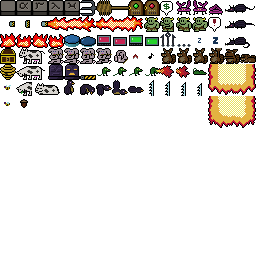
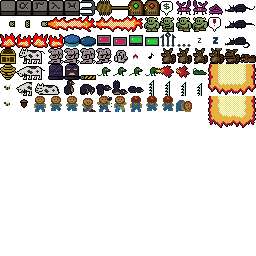
farmer

Changed region(s): [[0.125, 0.375, 0.75, 0.4375]]

diff --git a/src/tool/mkdata/processSprite.js b/src/tool/mkdata/processSprite.js
@@ -71,13 +71,13 @@ function rewriteInput_style(src) {
   if (src.length !== 2) throw new Error(`Expected 1 argument after 'style', found ${src.length - 1}`);
   let v = src[1];
   switch (v) {
-    case "hidden": v = 0; break;
-    case "tile": v = 1; break;
-    case "hero": v = 2; break;
-    case "fourframe": v = 3; break;
-    case "firenozzle": v = 4; break;
-    case "firewall": v = 5; break;
-    case "doublewide": v = 6; break;
+    case "hidden": v = 1; break;
+    case "tile": v = 2; break;
+    case "hero": v = 3; break;
+    case "fourframe": v = 4; break;
+    case "firenozzle": v = 5; break;
+    case "firewall": v = 6; break;
+    case "doublewide": v = 7; break;
   }
   return ["style", v];
 }

diff --git a/src/www/js/game/Constants.js b/src/www/js/game/Constants.js
@@ -78,13 +78,13 @@ export class Constants {
     this.TRANSITION_DOOR = 6;
     this.TRANSITION_WARP = 7;
     
-    this.SPRITE_STYLE_HIDDEN = 0;
-    this.SPRITE_STYLE_TILE = 1;
-    this.SPRITE_STYLE_HERO = 2;
-    this.SPRITE_STYLE_FOURFRAME = 3;
-    this.SPRITE_STYLE_FIRENOZZLE = 4;
-    this.SPRITE_STYLE_FIREWALL = 5;
-    this.SPRITE_STYLE_DOUBLEWIDE = 6;
+    this.SPRITE_STYLE_HIDDEN = 1;
+    this.SPRITE_STYLE_TILE = 2;
+    this.SPRITE_STYLE_HERO = 3;
+    this.SPRITE_STYLE_FOURFRAME = 4;
+    this.SPRITE_STYLE_FIRENOZZLE = 5;
+    this.SPRITE_STYLE_FIREWALL = 6;
+    this.SPRITE_STYLE_DOUBLEWIDE = 7;
     
     this.SPRITE_BV_SIZE = 8;
     this.SPRITE_SV_SIZE = 4;

diff --git a/src/app/sprite/types/fmn_sprite_farmer.c b/src/app/sprite/types/fmn_sprite_farmer.c
@@ -1,0 +1,293 @@
+#include "app/sprite/fmn_sprite.h"
+#include "app/sprite/fmn_physics.h"
+
+#define FARMER_STAGE_INDOORS 1
+#define FARMER_STAGE_GO_OUT 2
+#define FARMER_STAGE_DIG 3
+#define FARMER_STAGE_SOW 4
+#define FARMER_STAGE_WATER 5
+#define FARMER_STAGE_GO_HOME 6
+
+#define FARMER_WALK_SPEED 1.0f
+
+#define clock sprite->fv[0]
+#define stagetime sprite->fv[1]
+#define tileid0 sprite->bv[0]
+#define sleeping sprite->bv[1]
+#define stage sprite->bv[2]
+#define physics0 sprite->bv[3]
+#define hole_distance sprite->argv[0]
+
+/* INDOOR stage: Hidden, do nothing.
+ */
+ 
+static void farmer_begin_INDOORS(struct fmn_sprite *sprite) {
+  clock=0.0f;
+  stagetime=5.0f;
+  stage=FARMER_STAGE_INDOORS;
+  sprite->style=FMN_SPRITE_STYLE_HIDDEN;
+  sprite->physics=0;
+}
+
+/* GO_OUT: Walk down to the plant.
+ */
+ 
+static void farmer_begin_GO_OUT(struct fmn_sprite *sprite) {
+  clock=0.0f;
+  stagetime=(hole_distance-0.5f)/FARMER_WALK_SPEED;
+  stage=FARMER_STAGE_GO_OUT;
+  sprite->style=FMN_SPRITE_STYLE_TILE;
+  sprite->physics=physics0;
+  sprite->tileid=tileid0;
+}
+
+static void farmer_update_GO_OUT(struct fmn_sprite *sprite,float elapsed) {
+  sprite->y+=FARMER_WALK_SPEED*elapsed;
+  switch (((int)(clock*5.0f))%4) {
+    case 0: sprite->tileid=tileid0+0; break;
+    case 1: sprite->tileid=tileid0+1; break;
+    case 2: sprite->tileid=tileid0+0; break;
+    case 3: sprite->tileid=tileid0+2; break;
+  }
+}
+
+/* GO_HOME: Walk back into the door where we started.
+ */
+ 
+static void farmer_begin_GO_HOME(struct fmn_sprite *sprite) {
+  clock=0.0f;
+  stagetime=(hole_distance-0.5f)/FARMER_WALK_SPEED;
+  stage=FARMER_STAGE_GO_HOME;
+  sprite->style=FMN_SPRITE_STYLE_TILE;
+  sprite->physics=physics0;
+  sprite->tileid=tileid0+6;
+}
+
+static void farmer_update_GO_HOME(struct fmn_sprite *sprite,float elapsed) {
+  sprite->y-=FARMER_WALK_SPEED*elapsed;
+  switch (((int)(clock*5.0f))%4) {
+    case 0: sprite->tileid=tileid0+6; break;
+    case 1: sprite->tileid=tileid0+7; break;
+    case 2: sprite->tileid=tileid0+6; break;
+    case 3: sprite->tileid=tileid0+8; break;
+  }
+}
+
+/* DIG: Create the hole and animate.
+ */
+ 
+static void farmer_begin_DIG(struct fmn_sprite *sprite,int8_t col,int8_t row) {
+  clock=0.0f;
+  stagetime=1.0f;
+  sprite->style=FMN_SPRITE_STYLE_TILE;
+  sprite->physics=physics0;
+  stage=FARMER_STAGE_DIG;
+  fmn_global.map[row*FMN_COLC+col]=0x0f;
+  fmn_map_dirty();
+  sprite->tileid=tileid0+3;
+}
+
+static void farmer_update_DIG(struct fmn_sprite *sprite,float elapsed) {
+  if (clock>=0.5f) {
+    sprite->tileid=tileid0+4;
+  } else {
+    sprite->tileid=tileid0+3;
+  }
+}
+
+/* SOW: Create the plant.
+ */
+ 
+static void farmer_begin_SOW(struct fmn_sprite *sprite,int8_t col,int8_t row) {
+  clock=0.0f;
+  stagetime=0.5f;
+  stage=FARMER_STAGE_SOW;
+  sprite->style=FMN_SPRITE_STYLE_TILE;
+  sprite->physics=physics0;
+  sprite->tileid=tileid0;
+  if (fmn_add_plant(col,row)<0) {
+    farmer_begin_GO_HOME(sprite);
+  }
+}
+
+static void farmer_update_SOW(struct fmn_sprite *sprite,float elapsed) {
+  sprite->tileid=tileid0;
+}
+
+/* WATER: Water the plant.
+ */
+ 
+static void farmer_begin_WATER(struct fmn_sprite *sprite,struct fmn_plant *plant) {
+  plant->state=FMN_PLANT_STATE_GROW;
+  plant->fruit=FMN_PLANT_FRUIT_SEED;
+  //TODO flower_time?
+  fmn_map_dirty();
+  clock=0.0f;
+  stagetime=1.0f;
+  stage=FARMER_STAGE_WATER;
+  sprite->style=FMN_SPRITE_STYLE_TILE;
+  sprite->physics=physics0;
+  sprite->tileid=tileid0+5;
+}
+
+static void farmer_update_WATER(struct fmn_sprite *sprite,float elapsed) {
+  sprite->tileid=tileid0+5;
+}
+
+/* Init.
+ */
+ 
+static void _farmer_init(struct fmn_sprite *sprite) {
+  clock=0.0f;
+  tileid0=sprite->tileid;
+  physics0=sprite->physics;
+  farmer_begin_INDOORS(sprite);
+}
+
+/* If we were to resume normal physics at current position, would there be a collision?
+ */
+ 
+static int farmer_test_collisions_1(struct fmn_sprite *pumpkin,void *userdata) {
+  struct fmn_sprite *sprite=userdata;
+  if (sprite==pumpkin) return 0;
+  if (!(pumpkin->physics&FMN_PHYSICS_SPRITES)) return 0;
+  if (fmn_physics_check_sprites(0,0,pumpkin,sprite)) return 1;
+  return 0;
+}
+ 
+static uint8_t farmer_test_collisions(struct fmn_sprite *sprite) {
+  if (fmn_physics_check_edges(0,0,sprite)) return 1;
+  float oradius=sprite->radius;
+  sprite->radius=0.2f;
+  if (fmn_physics_check_grid(0,0,sprite,physics0)) {
+    sprite->radius=oradius;
+    return 1;
+  }
+  sprite->radius=oradius;
+  return fmn_sprites_for_each(farmer_test_collisions_1,sprite);
+}
+
+/* Advance to next stage.
+ */
+ 
+static void farmer_advance(struct fmn_sprite *sprite) {
+  switch (stage) {
+    case FARMER_STAGE_INDOORS: {
+        // If we were configured with a bad hole_distance, stay put.
+        if ((hole_distance<2)||(sprite->y+hole_distance>=FMN_ROWC)) {
+          farmer_begin_INDOORS(sprite);
+          return;
+        }
+        // If there is any plant on screen right now (even the withered carcass of the last one we planted, stay put).
+        // Typically, the farmer only appears once.
+        if (fmn_global.plantc) {
+          farmer_begin_INDOORS(sprite);
+          return;
+        }
+        // Finally, don't try to leave home if something is blocking the door.
+        if (farmer_test_collisions(sprite)) {
+          farmer_begin_INDOORS(sprite);
+          return;
+        }
+        farmer_begin_GO_OUT(sprite);
+      } break;
+    case FARMER_STAGE_GO_OUT: {
+        // Confirm that we're looking down at a plantable tile. If not, go home.
+        int8_t col=(int8_t)sprite->x;
+        int8_t row=(int8_t)(sprite->y+0.5f);
+        if ((col<0)||(row<0)||(col>=FMN_COLC)||(row>=FMN_ROWC)||(fmn_global.cellphysics[fmn_global.map[row*FMN_COLC+col]]!=FMN_CELLPHYSICS_VACANT)) {
+          farmer_begin_GO_HOME(sprite);
+          return;
+        }
+        const struct fmn_plant *plant=fmn_global.plantv;
+        uint8_t i=fmn_global.plantc;
+        for (;i-->0;plant++) {
+          if ((plant->x==col)&&(plant->y==row)) {
+            farmer_begin_GO_HOME(sprite);
+            return;
+          }
+        }
+        farmer_begin_DIG(sprite,col,row);
+      } break;
+    case FARMER_STAGE_DIG: {
+        // Check again that there's no plant here, and that it's still dug.
+        int8_t col=(int8_t)sprite->x;
+        int8_t row=(int8_t)(sprite->y+0.5f);
+        if ((col<0)||(row<0)||(col>=FMN_COLC)||(row>=FMN_ROWC)||(fmn_global.map[row*FMN_COLC+col]!=0x0f)) {
+          farmer_begin_GO_HOME(sprite);
+          return;
+        }
+        const struct fmn_plant *plant=fmn_global.plantv;
+        uint8_t i=fmn_global.plantc;
+        for (;i-->0;plant++) {
+          if ((plant->x==col)&&(plant->y==row)) {
+            farmer_begin_GO_HOME(sprite);
+            return;
+          }
+        }
+        farmer_begin_SOW(sprite,col,row);
+      } break;
+    case FARMER_STAGE_SOW: {
+        // Confirm there's a plant here and it's not watered yet.
+        int8_t col=(int8_t)sprite->x;
+        int8_t row=(int8_t)(sprite->y+0.5f);
+        struct fmn_plant *plant=fmn_global.plantv;
+        uint8_t i=fmn_global.plantc;
+        for (;i-->0;plant++) {
+          if ((plant->x==col)&&(plant->y==row)&&(plant->state==FMN_PLANT_STATE_SEED)) {
+            farmer_begin_WATER(sprite,plant);
+            return;
+          }
+        }
+        farmer_begin_GO_HOME(sprite);
+      } break;
+    case FARMER_STAGE_GO_HOME: {
+        farmer_begin_INDOORS(sprite);
+      } break;
+    default: farmer_begin_GO_HOME(sprite);
+  }
+}
+
+/* Update.
+ */
+ 
+static void _farmer_update(struct fmn_sprite *sprite,float elapsed) {
+  if (sleeping) {
+    sprite->tileid=tileid0+9;
+    sprite->style=FMN_SPRITE_STYLE_TILE;
+    return;
+  }
+  clock+=elapsed;
+  if (clock>=stagetime) {
+    farmer_advance(sprite);
+  } else switch (stage) {
+    case FARMER_STAGE_GO_OUT: farmer_update_GO_OUT(sprite,elapsed); break;
+    case FARMER_STAGE_DIG: farmer_update_DIG(sprite,elapsed); break;
+    case FARMER_STAGE_SOW: farmer_update_SOW(sprite,elapsed); break;
+    case FARMER_STAGE_WATER: farmer_update_WATER(sprite,elapsed); break;
+    case FARMER_STAGE_GO_HOME: farmer_update_GO_HOME(sprite,elapsed); break;
+  }
+}
+
+/* Interact.
+ */
+ 
+static int16_t _farmer_interact(struct fmn_sprite *sprite,uint8_t itemid,uint8_t qualifier) {
+  switch (itemid) {
+    case FMN_ITEM_WAND: switch (qualifier) {
+        case FMN_SPELLID_LULLABYE: if (!sleeping&&(sprite->style!=FMN_SPRITE_STYLE_HIDDEN)) { sleeping=1; fmn_sprite_generate_zzz(sprite); } break;
+        case FMN_SPELLID_REVEILLE: sleeping=0; break;
+      } break;
+    case FMN_ITEM_BELL: sleeping=0; break;
+  }
+  return 0;
+}
+
+/* Type definition.
+ */
+ 
+const struct fmn_sprite_controller fmn_sprite_controller_farmer={
+  .init=_farmer_init,
+  .update=_farmer_update,
+  .interact=_farmer_interact,
+};

diff --git a/src/app/fmn_platform.h b/src/app/fmn_platform.h
@@ -154,13 +154,13 @@ int rand();
 #define FMN_SFX_COWBELL 56
 // There's more GM, thru 81, but I'm sure we won't need all that.
 
-#define FMN_SPRITE_STYLE_HIDDEN     0 /* don't render */
-#define FMN_SPRITE_STYLE_TILE       1 /* single tile */
-#define FMN_SPRITE_STYLE_HERO       2 /* special */
-#define FMN_SPRITE_STYLE_FOURFRAME  3 /* 4 tiles arranged horizontally, automatic animation */
-#define FMN_SPRITE_STYLE_FIRENOZZLE 4 /* special */
-#define FMN_SPRITE_STYLE_FIREWALL   5 /* special */
-#define FMN_SPRITE_STYLE_DOUBLEWIDE 6 /* renders a second tile (id+1) to the right of the named one, and cheats left to stay centered */
+#define FMN_SPRITE_STYLE_HIDDEN     1 /* don't render */
+#define FMN_SPRITE_STYLE_TILE       2 /* single tile */
+#define FMN_SPRITE_STYLE_HERO       3 /* special */
+#define FMN_SPRITE_STYLE_FOURFRAME  4 /* 4 tiles arranged horizontally, automatic animation */
+#define FMN_SPRITE_STYLE_FIRENOZZLE 5 /* special */
+#define FMN_SPRITE_STYLE_FIREWALL   6 /* special */
+#define FMN_SPRITE_STYLE_DOUBLEWIDE 7 /* renders a second tile (id+1) to the right of the named one, and cheats left to stay centered */
 
 #define FMN_SPRITE_BV_SIZE 8
 #define FMN_SPRITE_SV_SIZE 4

diff --git a/src/app/sprite/fmn_sprite.h b/src/app/sprite/fmn_sprite.h
@@ -121,6 +121,7 @@ void fmn_sprite_kill(struct fmn_sprite *sprite);
 #define FMN_SPRCTL_rat           22
 #define FMN_SPRCTL_rabbit        23
 #define FMN_SPRCTL_toast         24
+#define FMN_SPRCTL_farmer        25
 
 #define FMN_FOR_EACH_SPRCTL \
   _(dummy) \
@@ -147,7 +148,8 @@ void fmn_sprite_kill(struct fmn_sprite *sprite);
   _(missile) \
   _(rat) \
   _(rabbit) \
-  _(toast)
+  _(toast) \
+  _(farmer)
   
 struct fmn_sprite_controller {
   void (*init)(struct fmn_sprite *sprite);

diff --git a/src/app/sprite/fmn_sprite_global.c b/src/app/sprite/fmn_sprite_global.c
@@ -27,7 +27,7 @@ static int8_t fmn_sprites_sortdir=1;
 void fmn_sprites_clear() {
   struct fmn_sprite *sprite=fmn_spritev;
   int i=FMN_SPRITE_LIMIT;
-  for (;i-->0;sprite++) sprite->style=FMN_SPRITE_STYLE_HIDDEN;
+  for (;i-->0;sprite++) sprite->style=0;
   fmn_global.spritec=0;
   fmn_global.spritev=(struct fmn_sprite_header**)fmn_spritepv;
 }

diff --git a/README.md b/README.md
@@ -45,7 +45,7 @@ I want this thing ready to show off at GDEX 2023. Anything not necessary for dem
 - - [x] Rat. Push the hero when in line of sight.
 - - [x] Invisibility for rat and raccoon, you forgot!
 - - [x] Rabbit that teaches you a song.
-- - [ ] Farmer that plants and waters a seed.
+- - [x] Farmer that plants and waters a seed.
 - - [ ] Rival witch that turns you into a pumpkin.
 - - - ...by casting The Pumpkin Spell, which you can too.
 - - [ ] Automatic pitchfork
